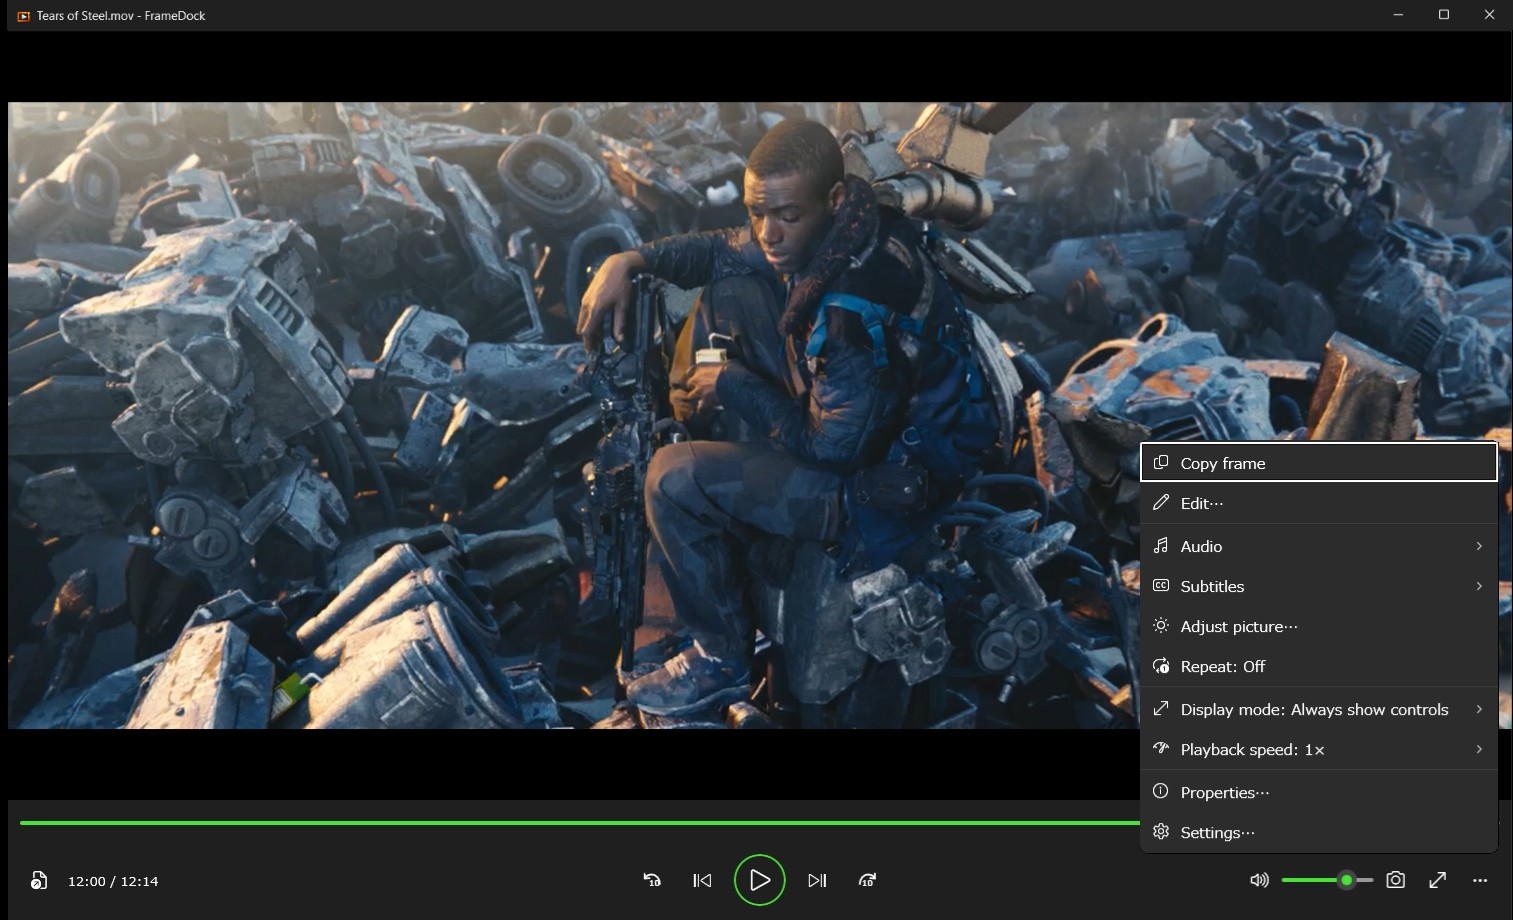
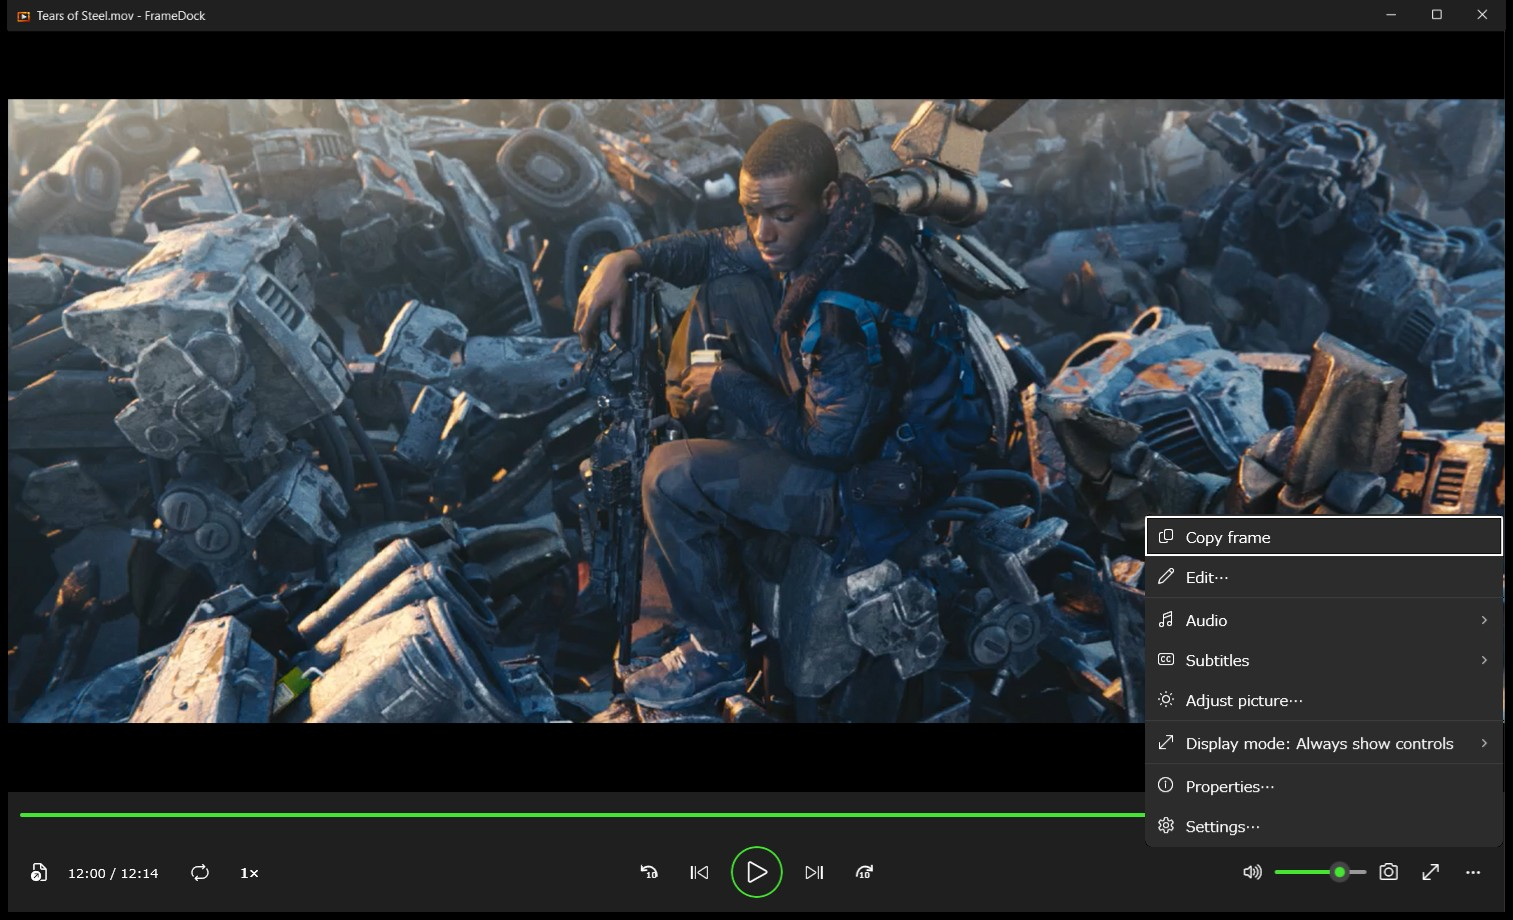
Update the README and screenshots for the control bar buttons

diff --git a/README.md b/README.md
@@ -19,6 +19,7 @@ It also has simple editing features: you can trim, crop, rotate, zoom, change sp
 - Saves the current frame as a PNG, or copies it to the clipboard.
 - Switches audio tracks and subtitles, repeats a video, and adjusts brightness, contrast, saturation, and hue for playback.
 - Shows the properties of a video (resolution, frame rate, codec, bit rate, and more) and copies them as text.
+- Lets you choose in the settings which buttons the control bar shows.
 - Offers a normal window, a maximized window, and full screen, and keeps the play button and other bars from covering the video where it can.
 - Provides simple video editing without switching to another app.
 - Trims a range you choose.
@@ -34,7 +35,7 @@ In the maximized window and in full screen the control bar is hidden, and it app
 
 ![Playback with the controls shown](docs/images/playback-controls.jpg)
 
-The control bar has buttons for repeat and the playback speed. For a video with audio tracks or subtitles to choose from, it also shows an audio and subtitles button. "Edit and more" (the **…** button) opens the menu for copying a frame, the editor, picture adjustment, the display mode, the properties, and the settings.
+The control bar has buttons for repeat and the playback speed. For a video with audio tracks or subtitles to choose from, it also shows an audio and subtitles button. "Edit and more" (the **…** button) opens the menu for copying a frame, the editor, picture adjustment, the display mode, the properties, and the settings. The video in this image has one audio track and no subtitles, so audio and subtitles are in the menu.
 
 ![The menu](docs/images/menu-en.jpg)
 
@@ -74,7 +75,7 @@ The setup contains everything FrameDock needs and downloads nothing. A desktop i
 - The camera button (Ctrl+S) saves the current frame as a PNG. The file name contains the video name and the playback time, and an existing file is never overwritten.
 - While the editor is open, the camera button next to the play button (Ctrl+S) saves the frame as you see it, with the crop, rotation, and zoom applied, at the same size as the export.
 - A notification shows the full path, with an **Open folder** button.
-- Right-click the video to copy the current frame to the clipboard.
+- "Edit and more" → **Copy frame**, or a right-click on the video, copies the current frame to the clipboard. The settings can also put a copy button on the control bar.
 - **Settings** chooses where frames go: `Pictures\FrameDock` (the default), a folder you choose, the folder of the video, or a subfolder next to the video. If that location can't be written to, the frame is saved to `Pictures\FrameDock`.
 
 ### Edit and export
